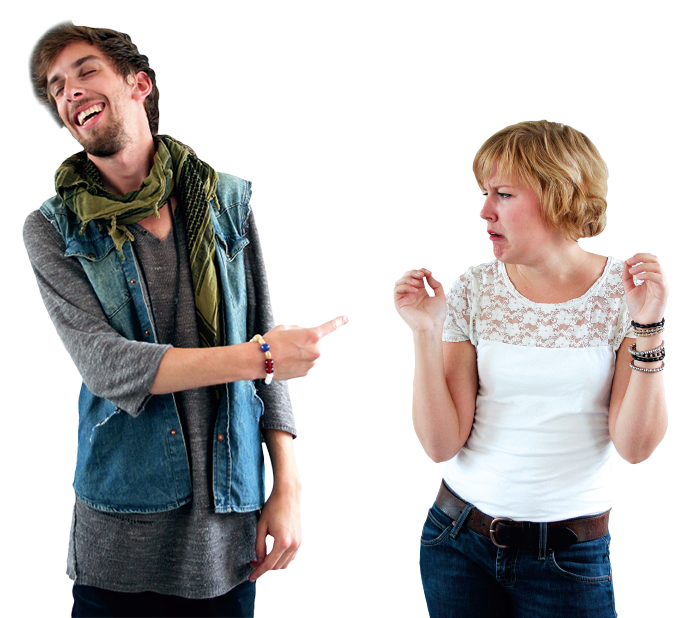
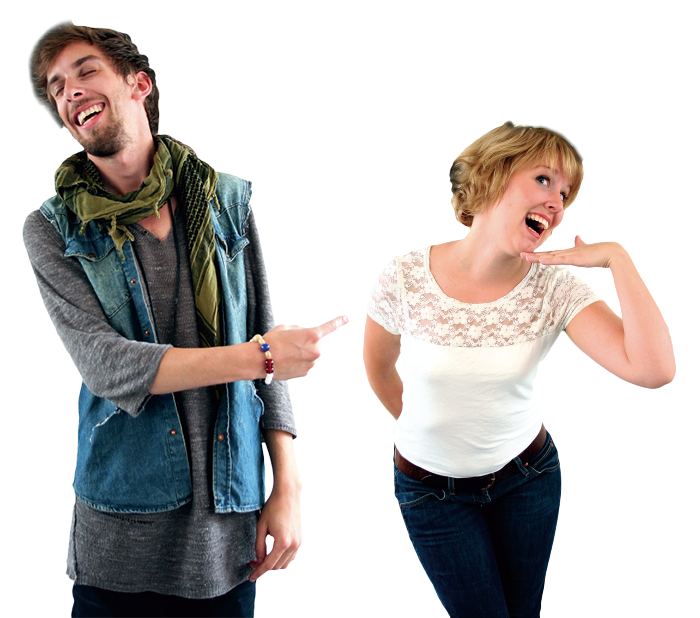
Added transition on main page

Changed region(s): [[0.51, 0.1845, 0.99, 1.0]]

diff --git a/style.css b/style.css
@@ -83,16 +83,20 @@ ul
     float: left;
 }
 
-.HOchO {
+.HOchO 
+{
     position: absolute;
     top: 57px;
     left: 420px;
-    transition: left 10s;
+    height: 700px;
+    width: 618px;
+    transition: left 4s;
 }
 
-/*.HOchO:hover {
-    left: 500px;
-}*/
+    .HOchO:hover 
+    {
+        left: 450px;
+    }
 
 #footer {
     bottom: 25px;
